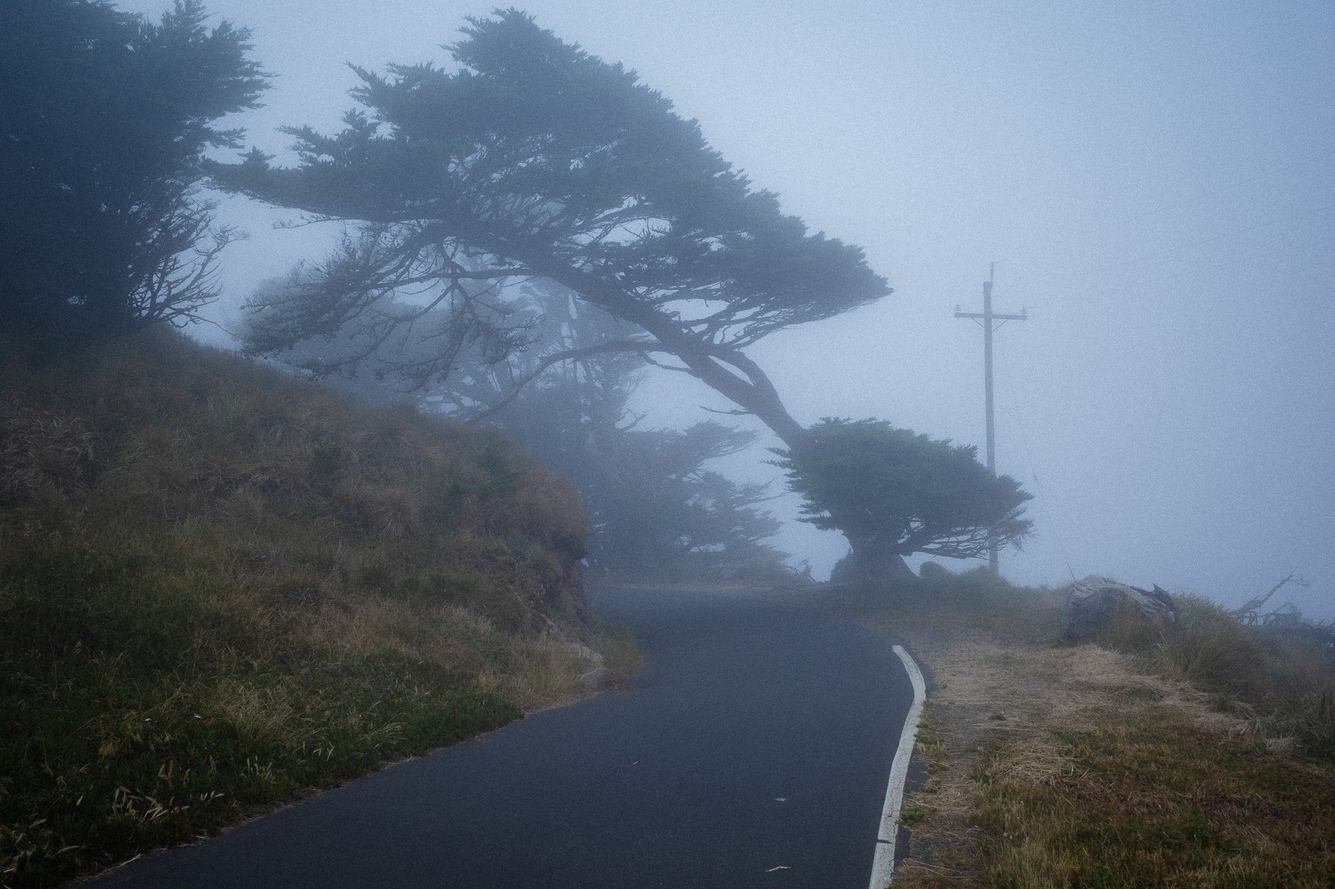
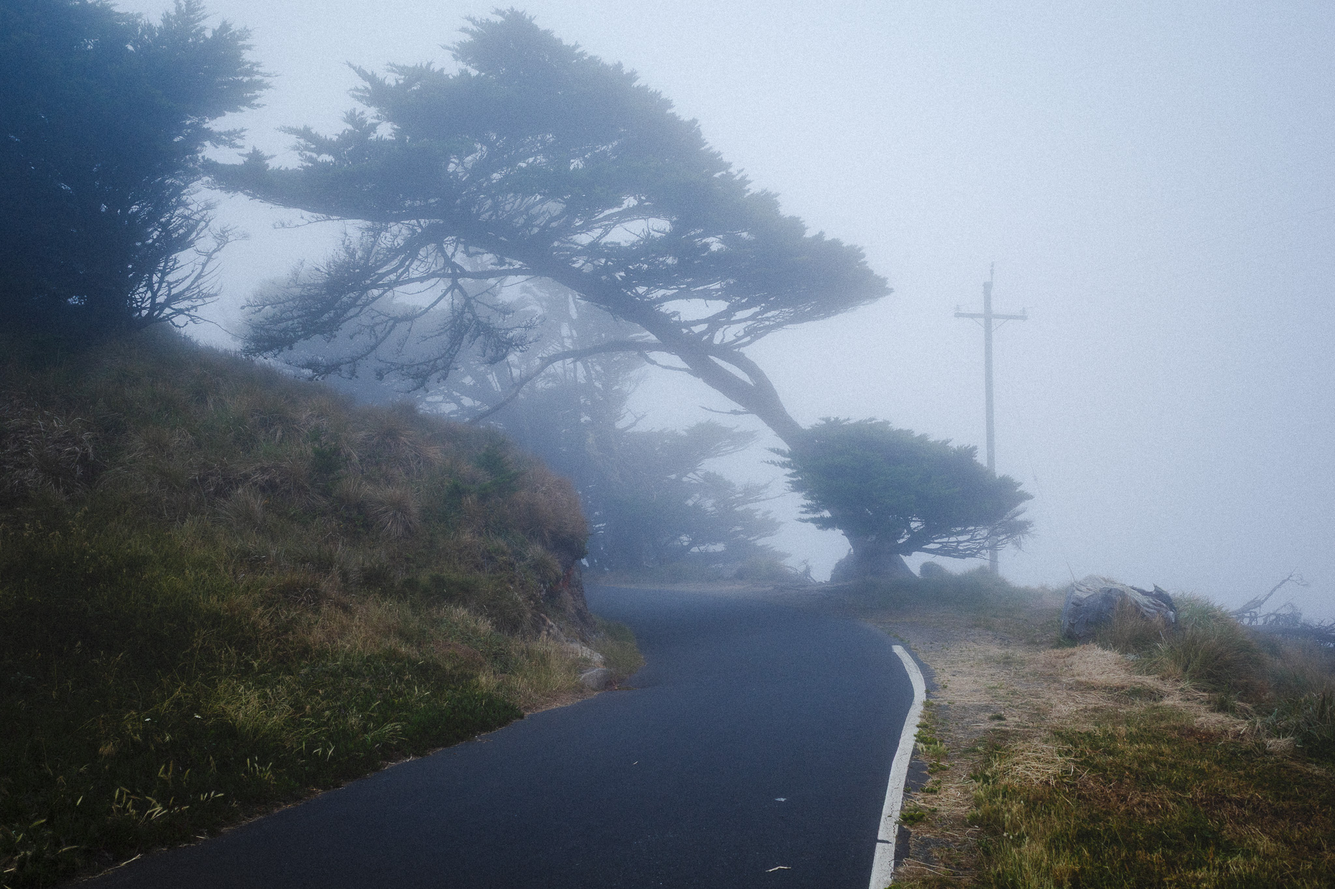
updates to photos

diff --git a/photos.html b/photos.html
@@ -77,6 +77,14 @@ wide_content: true
       <span></span>
     </button>
 	
+	<button class="photo-card" type="button"
+      data-full="{{ '/files/R0004399.jpg' | relative_url }}"
+      data-alt=""
+      data-caption="">
+      <img src="{{ '/files/R0004399.jpg' | relative_url }}" alt="" loading="lazy">
+      <span></span>
+    </button>
+	
   </div>
 
   <div class="photo-viewer" data-gallery-view hidden tabindex="-1" aria-live="polite">

diff --git a/_site/photos/index.html b/_site/photos/index.html
@@ -109,6 +109,14 @@
       <span></span>
     </button>
 	
+	<button class="photo-card" type="button"
+      data-full="/files/R0004399.jpg"
+      data-alt=""
+      data-caption="">
+      <img src="/files/R0004399.jpg" alt="" loading="lazy">
+      <span></span>
+    </button>
+	
   </div>
 
   <div class="photo-viewer" data-gallery-view hidden tabindex="-1" aria-live="polite">
